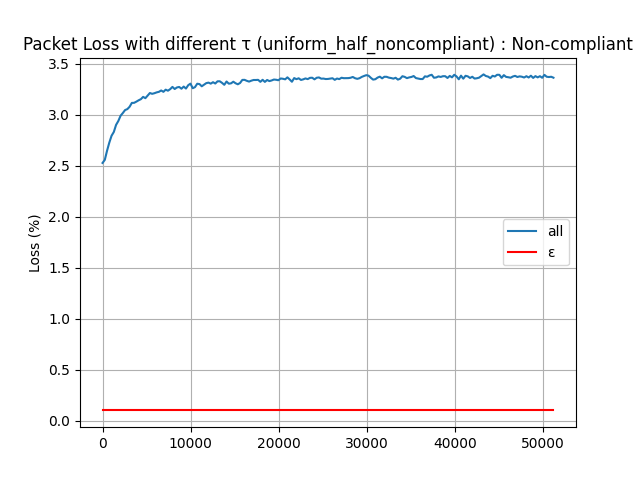
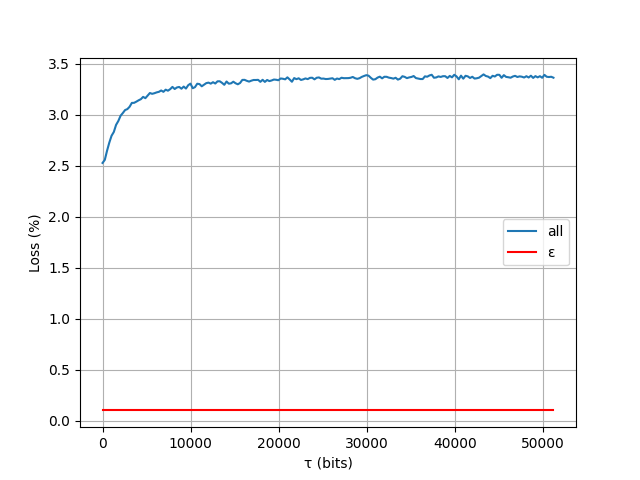
update uniform distribution : half non-compliant SLA

Changed region(s): [[0.0312, 0.0625, 1.0, 0.125], [0.4688, 0.9375, 0.5625, 1.0]]

diff --git a/Simulation/python/compliant_and_non_compliant_tau.py b/Simulation/python/compliant_and_non_compliant_tau.py
@@ -31,9 +31,10 @@ title = 'Packet Loss with different τ ({}) : '.format(name)
 plt.plot(tau, compliant_loss_pure ,linestyle='-', label='pure', alpha = 1)
 plt.plot(tau, [float(config['simulation']['error'])*100.0 for i in tau], linestyle='-', color = 'red', label='ε')
 plt.ylabel('Loss (%)')
+plt.xlabel('τ (bits)')
 plt.legend()
 plt.grid(True)
-plt.title(title+'Compliant')
+# plt.title(title+'Compliant')
 plt.savefig(IMAGE_PATH_COMPLIANT.format(name, 'pure'))
 plt.cla()
 
@@ -41,9 +42,10 @@ plt.cla()
 plt.plot(tau, noncompliant_loss_pure ,linestyle='-', label='pure', alpha = 1)
 plt.plot(tau, [float(config['simulation']['error'])*100.0 for i in tau], linestyle='-', color = 'red', label='ε')
 plt.ylabel('Loss (%)')
+plt.xlabel('τ (bits)')
 plt.legend()
 plt.grid(True)
-plt.title(title+'Non-compliant')
+# plt.title(title+'Non-compliant')
 plt.savefig(IMAGE_PATH_NONCOMPLIANT.format(name, 'pure'))
 plt.cla()
 
@@ -52,9 +54,10 @@ plt.cla()
 plt.plot(tau, compliant_loss_all ,linestyle='-', label='all', alpha = 1)
 plt.plot(tau, [float(config['simulation']['error'])*100.0 for i in tau], linestyle='-', color = 'red', label='ε')
 plt.ylabel('Loss (%)')
+plt.xlabel('τ (bits)')
 plt.legend()
 plt.grid(True)
-plt.title(title+'Compliant')
+# plt.title(title+'Compliant')
 plt.savefig(IMAGE_PATH_COMPLIANT.format(name, 'all'))
 plt.cla()
 
@@ -62,9 +65,10 @@ plt.cla()
 plt.plot(tau, noncompliant_loss_all ,linestyle='-', label='all', alpha = 1)
 plt.plot(tau, [float(config['simulation']['error'])*100.0 for i in tau], linestyle='-', color = 'red', label='ε')
 plt.ylabel('Loss (%)')
+plt.xlabel('τ (bits)')
 plt.legend()
 plt.grid(True)
-plt.title(title+'Non-compliant')
+# plt.title(title+'Non-compliant')
 plt.savefig(IMAGE_PATH_NONCOMPLIANT.format(name, 'all'))
 plt.cla()
 
